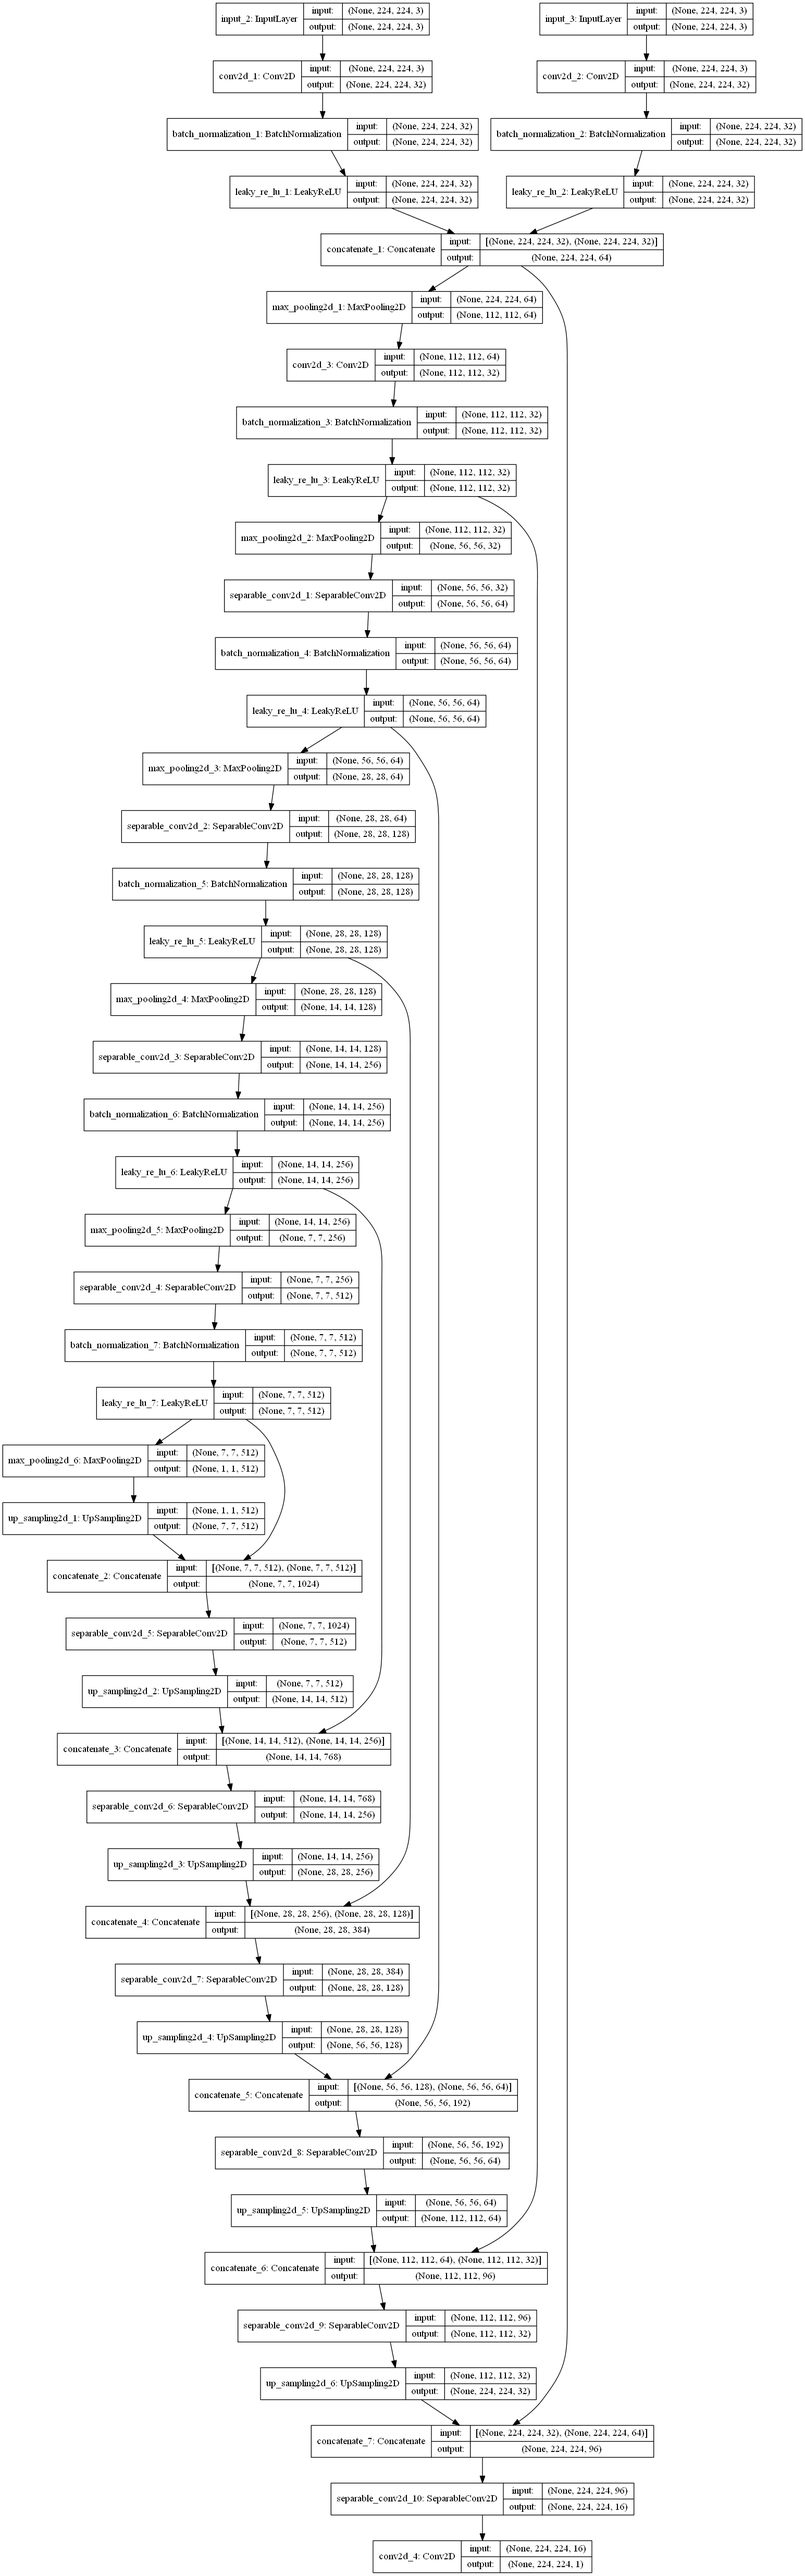
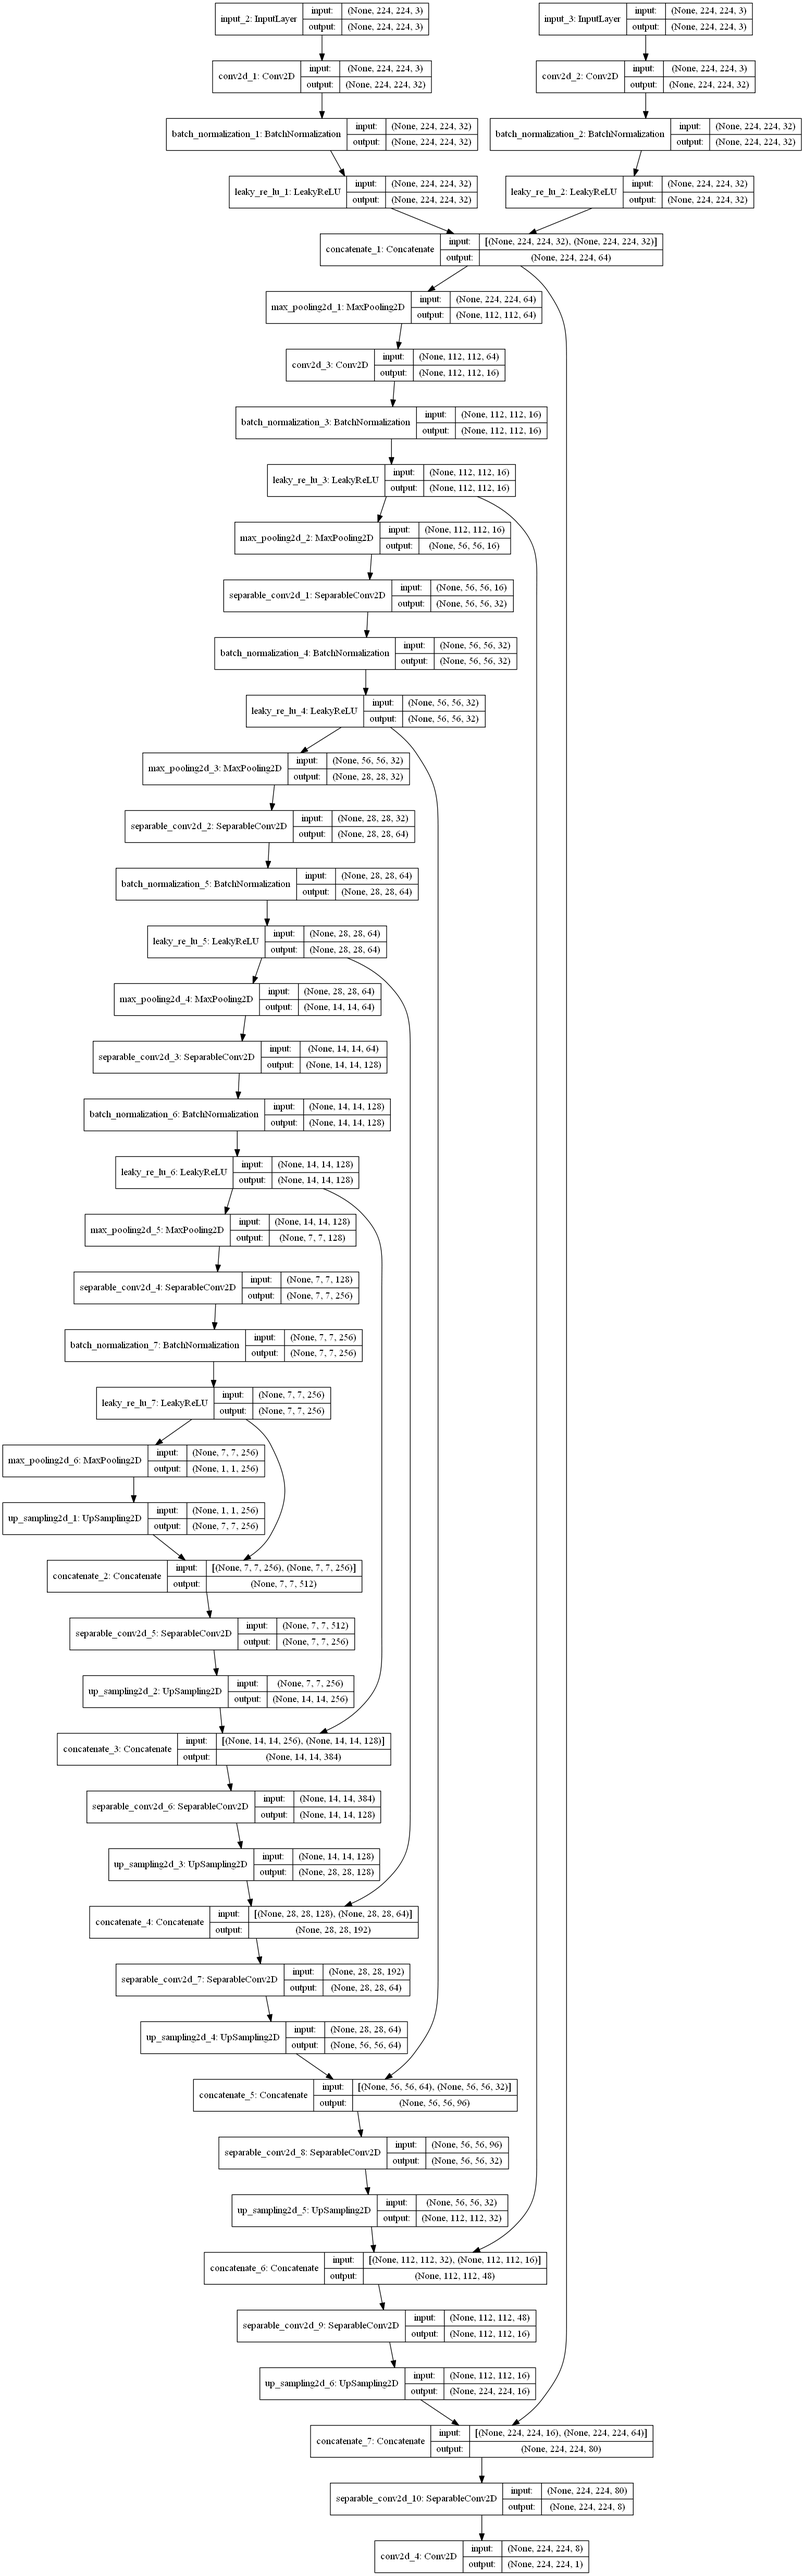
Epoch number - 100, per epoch time - 79 s, mse_train = 0.0624, mse_val = 0.078, dice_train = 0.9747, dice_val = 0.962. Weight size = 2.244 Mb

diff --git a/code/deepNeuralWork/model_discription.py b/code/deepNeuralWork/model_discription.py
@@ -85,8 +85,8 @@ print('-'*30)
 
 # input for the left frames
 inputs_left = Input((img_rows, img_cols, 3))
-power = 4
-conv1_left = Conv2D(2**(power+1), (3, 3), padding='same')(inputs_left)
+power = 3
+conv1_left = Conv2D(2**(power+2), (3, 3), padding='same')(inputs_left)
 #conv1_left = Conv2D(2**(power), (3, 3), activation='relu', padding='same')(conv1_left)
 conv1_left = BatchNormalization()(conv1_left)
 conv1_left = LeakyReLU()(conv1_left)
@@ -96,7 +96,7 @@ conv1_left = LeakyReLU()(conv1_left)
 
 # input for the right frames
 inputs_right = Input((img_rows, img_cols, 3))
-conv1_right = Conv2D(2**(power+1), (3, 3), padding='same')(inputs_right)
+conv1_right = Conv2D(2**(power+2), (3, 3), padding='same')(inputs_right)
 #conv1_right = Conv2D(2**(power), (3, 3), activation='relu', padding='same')(conv1_right)
 conv1_right = BatchNormalization()(conv1_right)
 conv1_right = LeakyReLU()(conv1_right)
@@ -192,7 +192,7 @@ model.compile(optimizer=opt, loss='mean_absolute_error', metrics=[dice_coef]) #A
 #model.compile(loss='mean_squared_error',optimizer=Adam(lr=learning_rate, decay = decay_rate),metrics=['accuracy'])
 plot_model(model, to_file='model.png', show_shapes=True)
 model.summary()
-#model.load_weights('C:/Users/tomil/Documents/FPGA_real_time_depth_estimation_based_on_neural_network/code/deepNeuralWork/weightsDispar', by_name=True)
+model.load_weights('C:/Users/tomil/Documents/FPGA_real_time_depth_estimation_based_on_neural_network/code/deepNeuralWork/weightsDispar', by_name=True)
 
 # left frames load and preprocess
 imgs_train_l = np.load('imgs_train_l.npy')

diff --git a/code/deepNeuralWork/model_verif.py b/code/deepNeuralWork/model_verif.py
@@ -37,8 +37,8 @@ upconv = False
 
 # input for the left frames
 inputs_left = Input((img_rows, img_cols, 3))
-power = 4
-conv1_left = Conv2D(2**(power+1), (3, 3), padding='same')(inputs_left)
+power = 3
+conv1_left = Conv2D(2**(power+2), (3, 3), padding='same')(inputs_left)
 #conv1_left = Conv2D(2**(power), (3, 3), activation='relu', padding='same')(conv1_left)
 conv1_left = BatchNormalization()(conv1_left)
 conv1_left = LeakyReLU()(conv1_left)
@@ -48,7 +48,7 @@ conv1_left = LeakyReLU()(conv1_left)
 
 # input for the right frames
 inputs_right = Input((img_rows, img_cols, 3))
-conv1_right = Conv2D(2**(power+1), (3, 3), padding='same')(inputs_right)
+conv1_right = Conv2D(2**(power+2), (3, 3), padding='same')(inputs_right)
 #conv1_right = Conv2D(2**(power), (3, 3), activation='relu', padding='same')(conv1_right)
 conv1_right = BatchNormalization()(conv1_right)
 conv1_right = LeakyReLU()(conv1_right)
